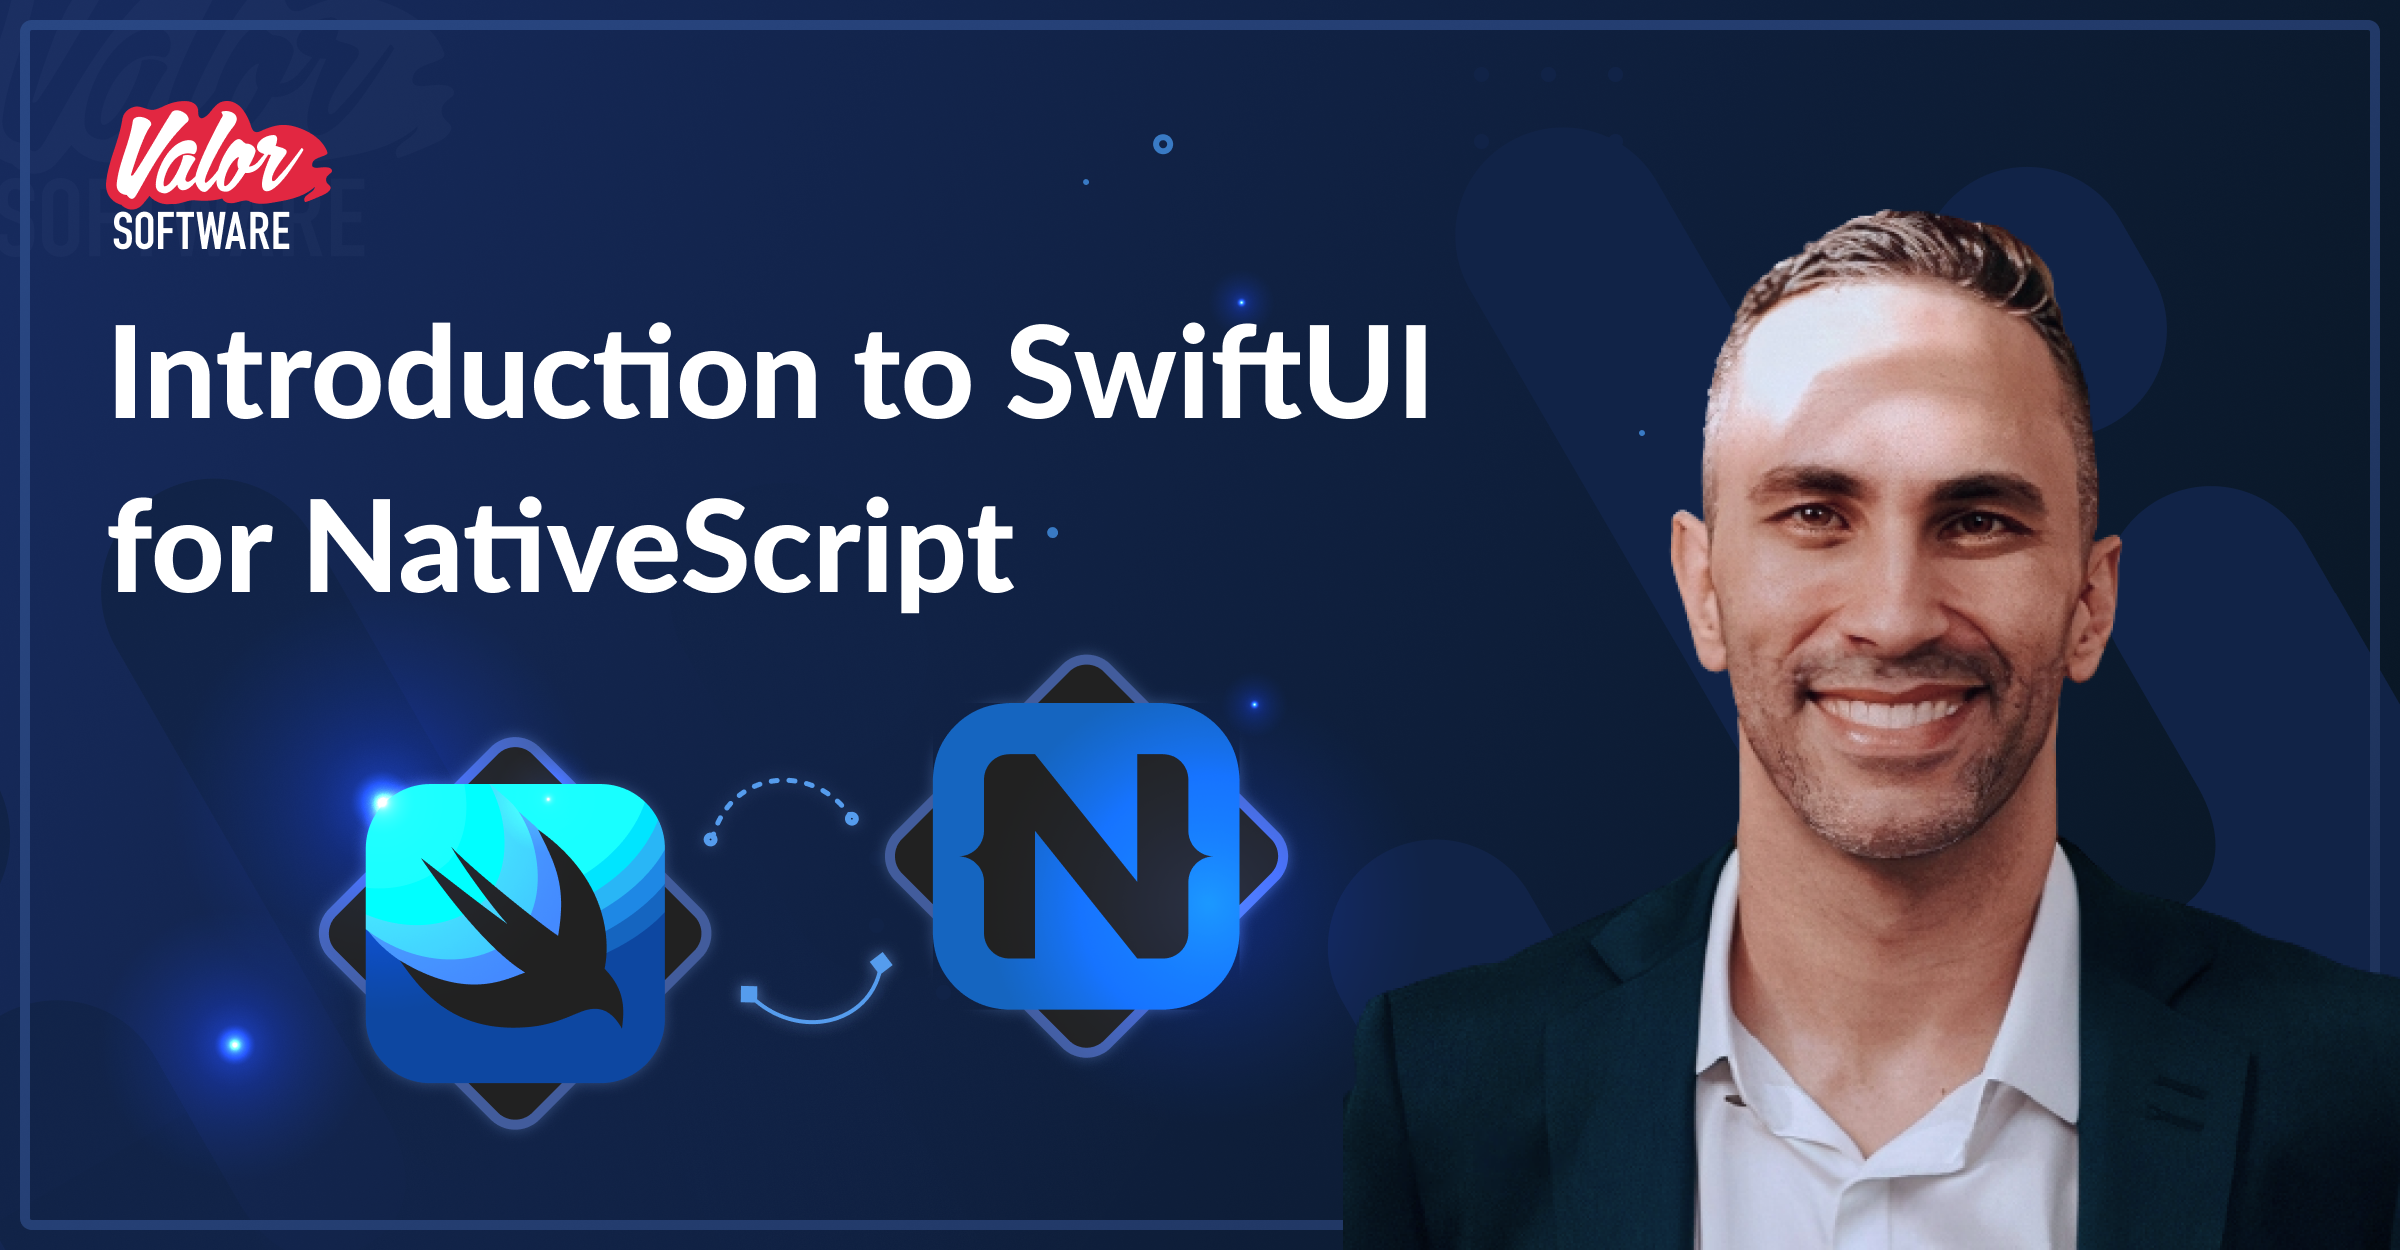
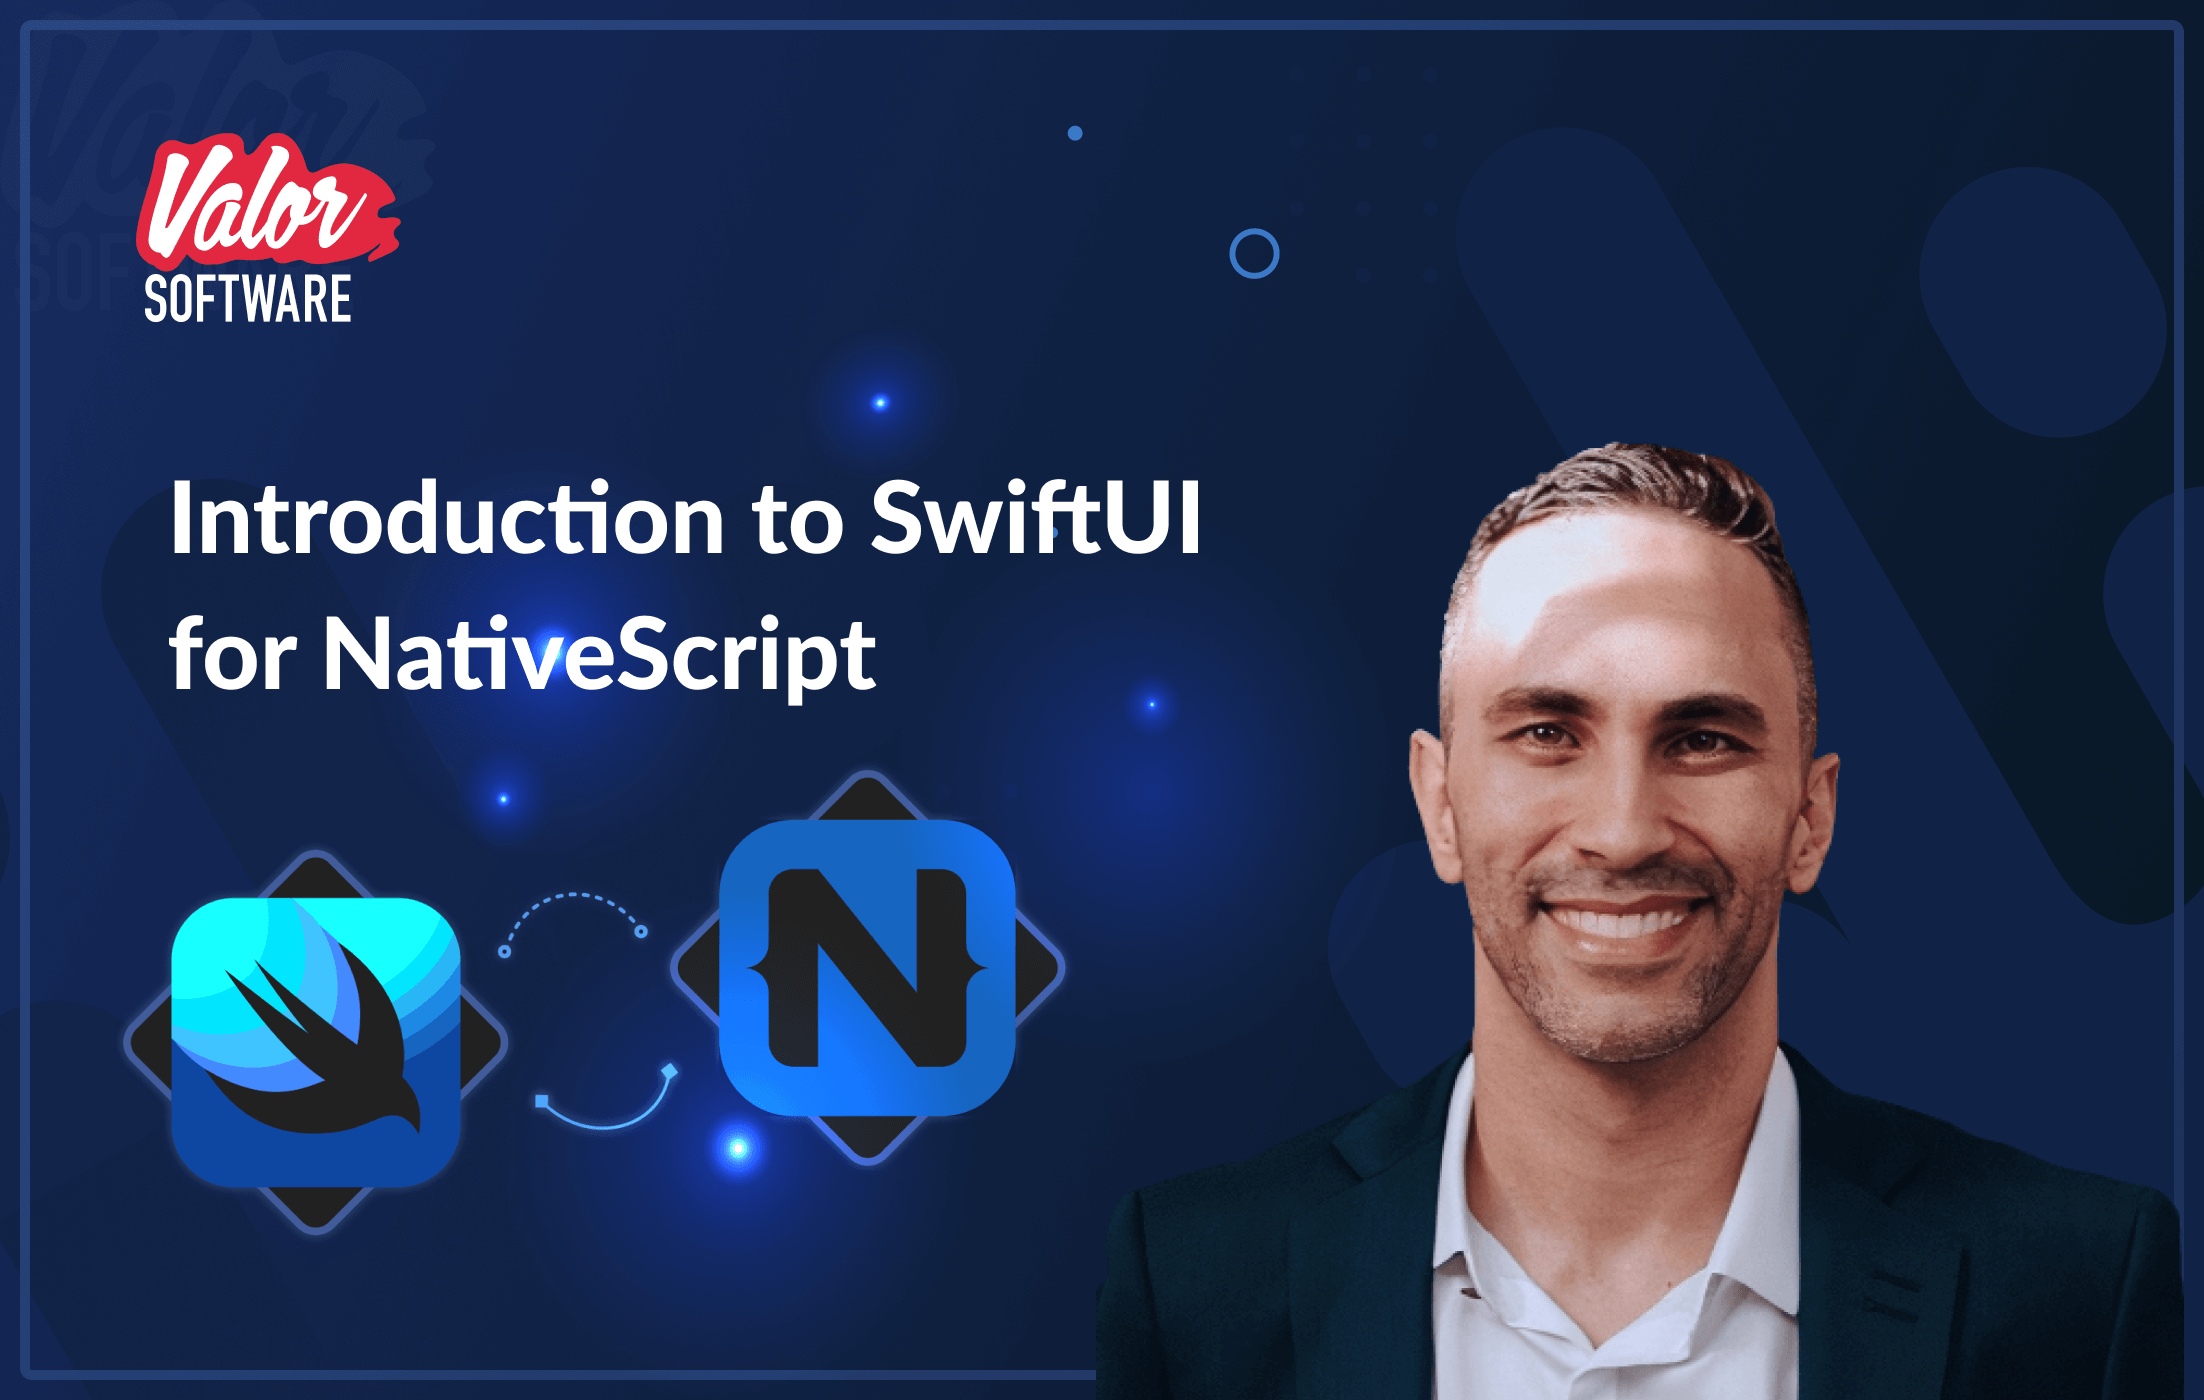
refactor(blog): change blog images

diff --git a/libs/common-docs/src/components/blog-preview/blog-portfolio-item.component.ts b/libs/common-docs/src/components/blog-preview/blog-portfolio-item.component.ts
@@ -9,7 +9,7 @@ import { IPortfolio } from "../../models/portfolio.interface";
     template:`
         <div class="article-item">
             <div class="img-container zoom-img-scale">
-                <img class="w-full h-full" [src]="article ? article.bgImg : project?.previewImg" [alt]="article ? article.title : project?.name + 'img'">
+                <img class="w-full h-full object-cover" [src]="article ? article.bgImg : project?.previewImg" [alt]="article ? article.title : project?.name + 'img'">
             </div>
             <div class="text-container">
                 <p>{{article ? article.title : project?.name}}</p>
